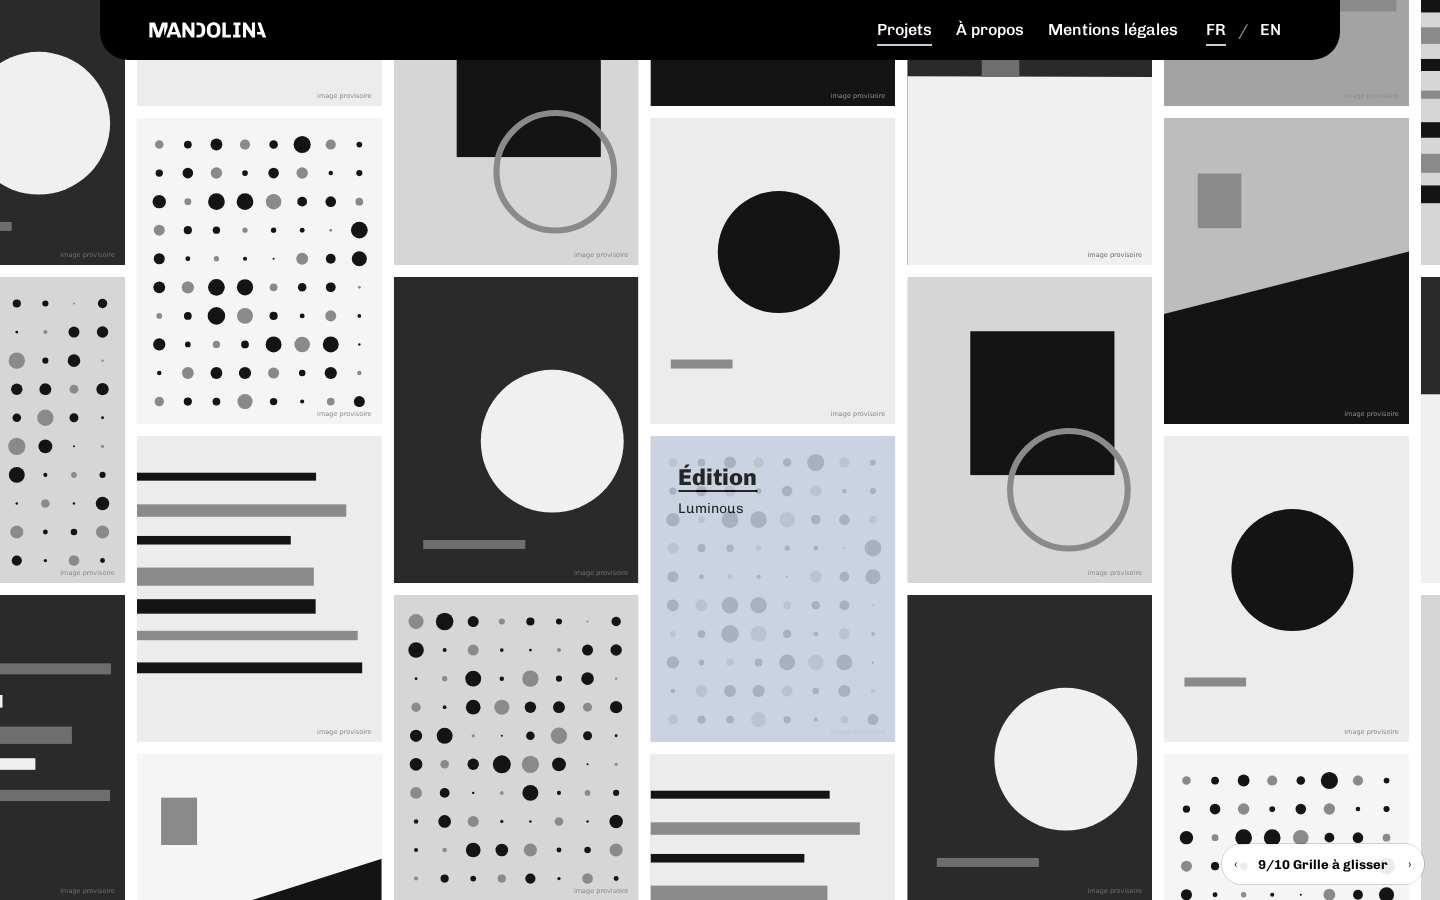
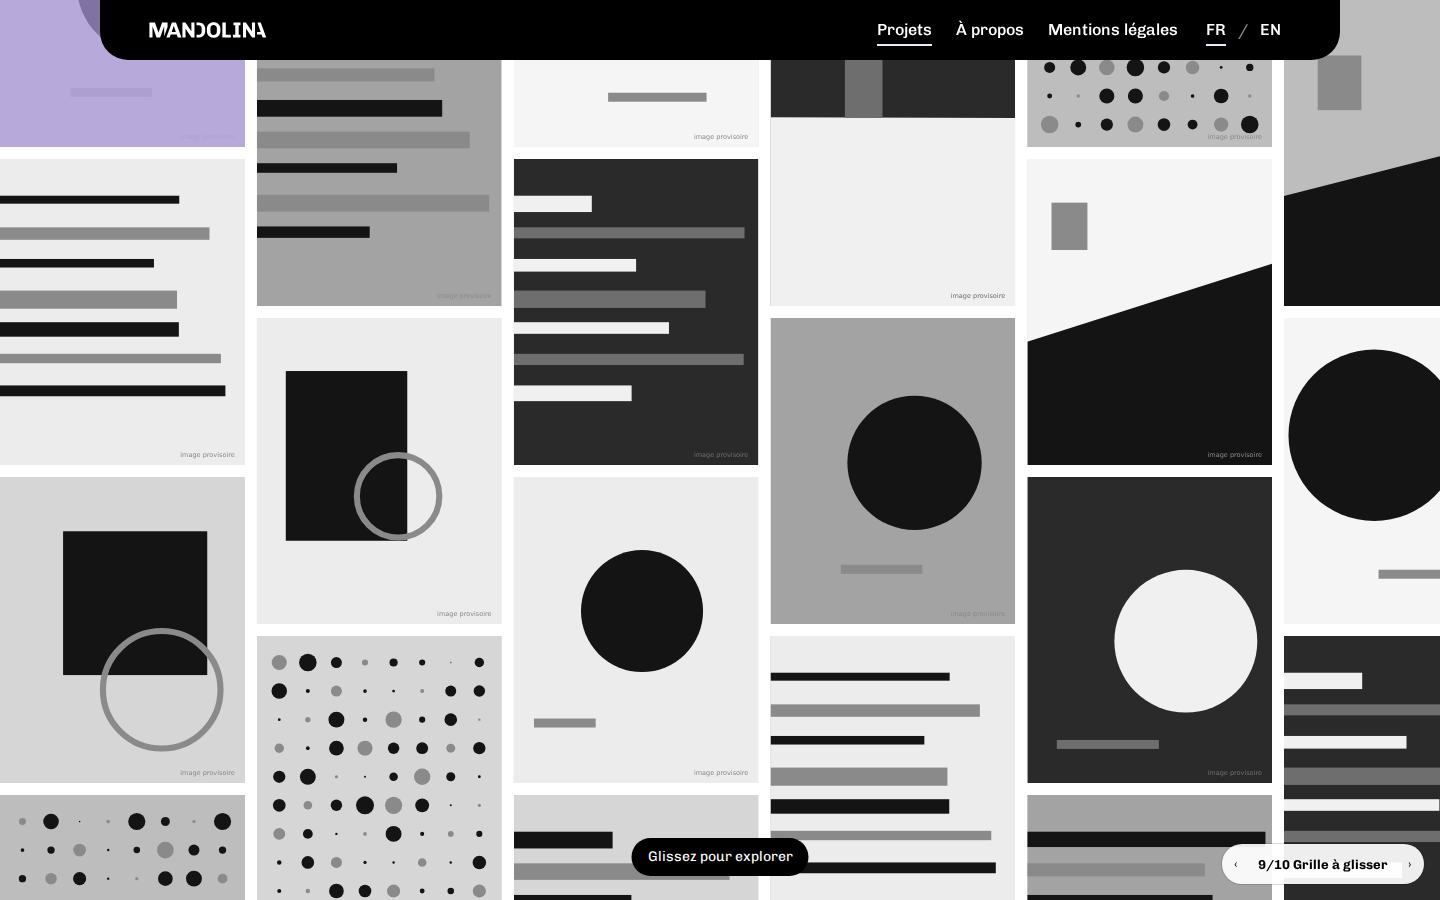
fix(maquettes): place chaque projet au moins une fois dans la grille à glisser
La formule de répartition sautait un projet (FR Skates — Packaging sur
ordinateur, Luminous — Packaging sur mobile). Les cases sont maintenant
numérotées à la suite et le bloc répété compte au moins une case par
projet, quel que soit leur nombre.

diff --git a/docs/06-maquettes/carrousels/grille-infinie.html b/docs/06-maquettes/carrousels/grille-infinie.html
@@ -92,14 +92,15 @@
       function construire() {
         cw = Math.max(innerWidth * (innerWidth <= 700 ? 0.44 : 0.17), 150)
         ch = cw * 1.25 + ecart
-        cols = Math.ceil(innerWidth / (cw + ecart)) + 2
-        cols += cols % 2 // nombre pair : le décalage des colonnes impaires reste juste au raccord
         rows = Math.ceil(innerHeight / ch) + 2
+        // Au moins une case par projet dans le bloc répété, quel que soit le nombre de projets
+        cols = Math.max(Math.ceil(innerWidth / (cw + ecart)) + 2, Math.ceil(n / rows))
+        cols += cols % 2 // nombre pair : le décalage des colonnes impaires reste juste au raccord
         mur.innerHTML = ''
         cases = []
         for (let c = 0; c < cols; c++)
           for (let r = 0; r < rows; r++) {
-            const p = projets[modulo(c * 7 + r * 3, n)]
+            const p = projets[(c * rows + r) % n] // cases numérotées à la suite : aucun projet sauté
             mur.insertAdjacentHTML('beforeend', carte(p, { classe: 'survolable', attributs: 'tabindex="-1"' }))
             const el = mur.lastElementChild
             el.style.width = cw + 'px'
